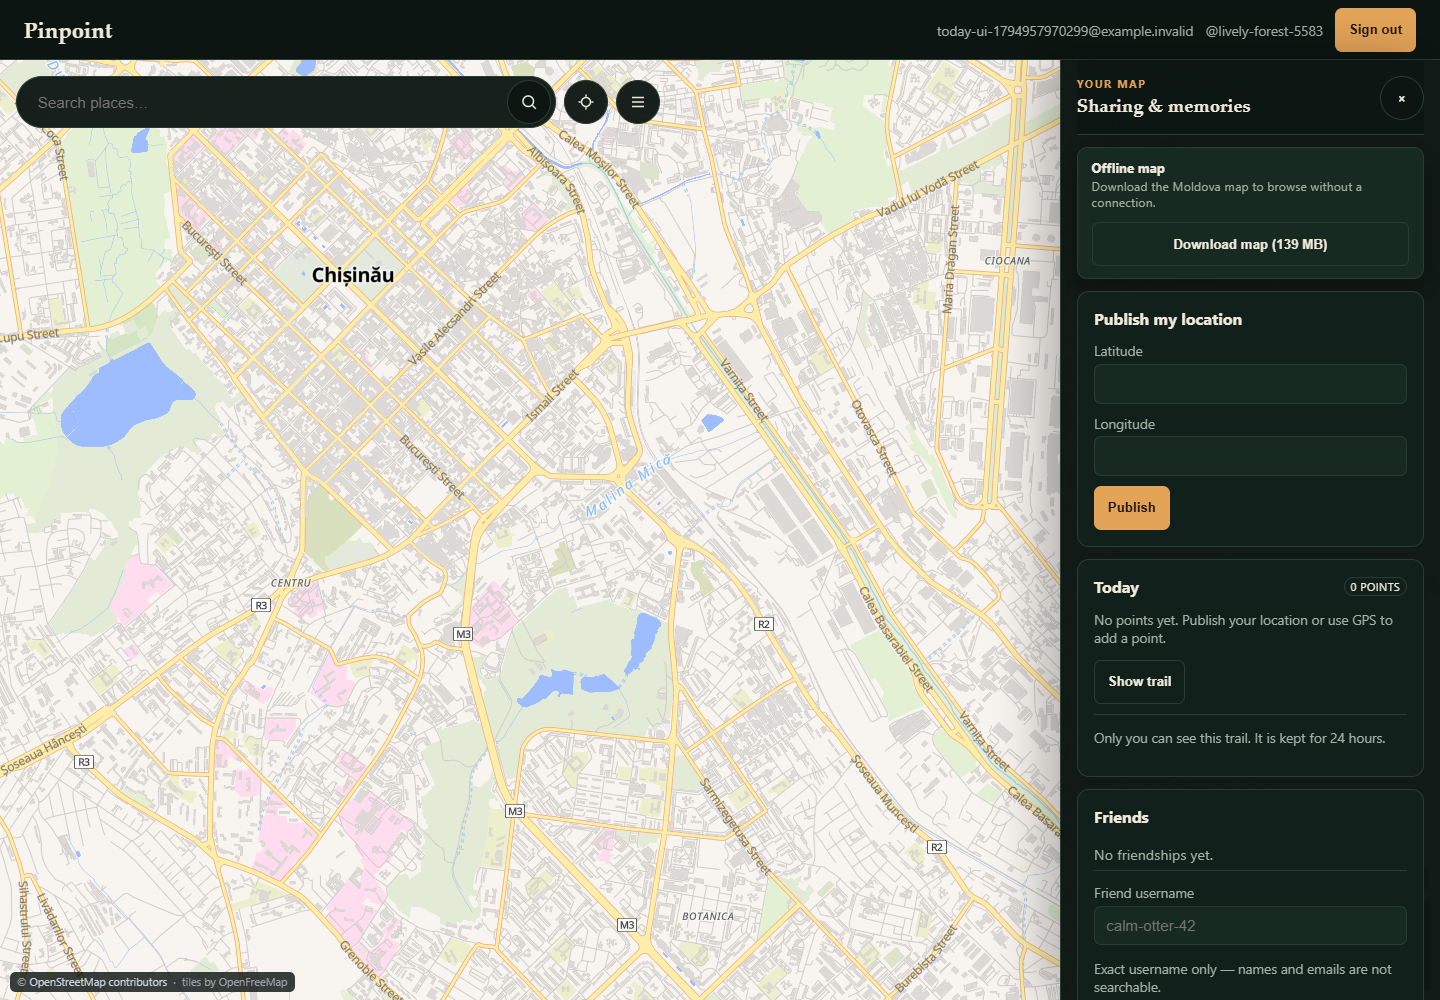
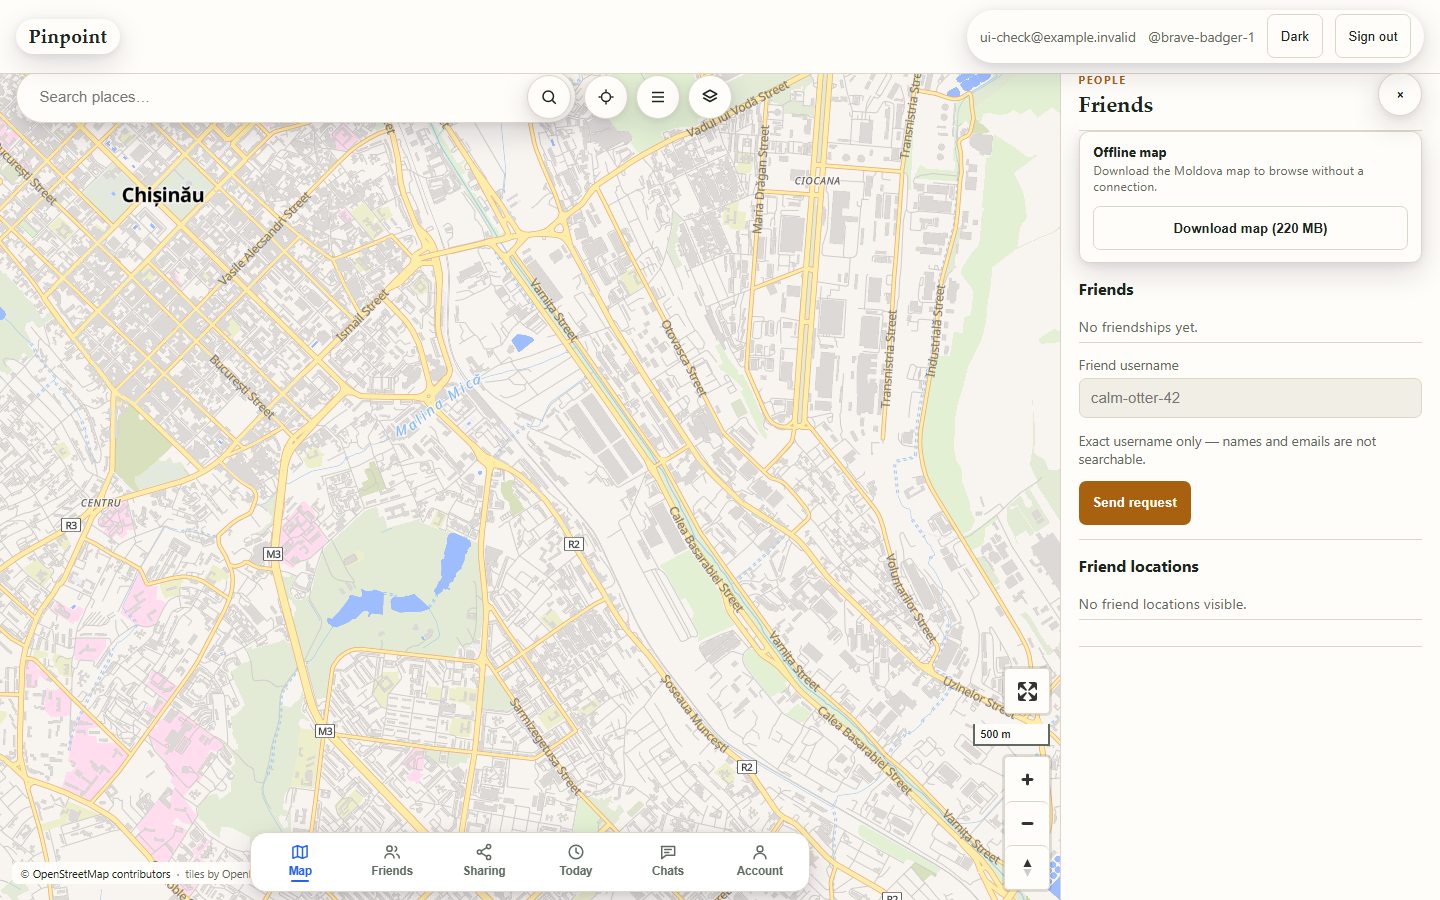
[FEATURE] web: give the map a desktop shell and full controls

diff --git a/web/app/app.css b/web/app/app.css
@@ -1885,3 +1885,111 @@ body:has(.drawer:is(.open, .closing)) .map-controls {
   margin-top: 0.75rem;
 }
 .oauth-buttons button { width: 100%; }
+/* ---------------------------------------------------------------------------
+   Desktop map shell
+   Wide screens get a persistent right column for the section cards, with the
+   map filling the rest. Mobile keeps the bottom sheets and floating tab bar.
+   --------------------------------------------------------------------------- */
+@media (min-width: 981px) {
+  body:has(#app-panel:not(.hidden)) > header {
+    background: var(--glass-strong);
+    border-bottom: 1px solid var(--border);
+  }
+
+  .drawer {
+    top: 3.5rem;
+    right: 0;
+    bottom: 0;
+    left: auto;
+    width: 380px;
+    max-height: none;
+    padding: 0 1.1rem 1.5rem;
+    border: 0;
+    border-left: 1px solid var(--border);
+    border-radius: 0;
+    box-shadow: none;
+    transform: none;
+    animation: none;
+  }
+  .drawer.closing { animation: none; }
+  .drawer-grab { display: none; }
+  .drawer-head {
+    padding-top: 1rem;
+    cursor: default;
+    touch-action: auto;
+  }
+  .drawer-head h2 { font-size: 1.35rem; }
+
+  /* The drawer is part of the layout while open: the map and its chrome
+     shrink instead of hiding underneath it. */
+  body:has(.drawer.open) .app-shell .map {
+    right: 380px;
+    width: calc(100% - 380px);
+  }
+  body:has(.drawer.open) .map-topbar { right: calc(380px + 1rem); }
+  body:has(.drawer.open) .map-controls { right: calc(380px + 1rem); }
+  body:has(.drawer.open) .side-panel { right: calc(380px + 1rem); }
+  body:has(.drawer.open) .tab-bar {
+    right: 380px;
+    width: min(560px, calc(100% - 380px - 2rem));
+  }
+  /* Desktop never hides its chrome behind the drawer. */
+  body:has(.drawer.open) .map-topbar,
+  body:has(.drawer.open) .map-controls,
+  body:has(.drawer.open) > header h1,
+  body:has(.drawer.open) #session-bar {
+    opacity: 1;
+    pointer-events: auto;
+  }
+
+  .map-topbar {
+    top: 4.4rem;
+    right: 1rem;
+    bottom: auto;
+  }
+  .search-form { max-width: 560px; }
+  .category-chips {
+    top: 8rem;
+    bottom: auto;
+    left: 1rem;
+    max-width: min(560px, calc(100% - 380px - 2rem));
+  }
+  .map-controls {
+    top: 8.4rem;
+    right: 1rem;
+    bottom: auto;
+  }
+  .map-attribution {
+    bottom: 1rem;
+    left: 0.75rem;
+  }
+  .tab-bar {
+    right: 0;
+    left: 0;
+    width: min(560px, calc(100% - 2rem));
+    margin: 0 auto;
+    transform: none;
+  }
+  .side-panel {
+    right: 1rem;
+    bottom: 5.4rem;
+    left: auto;
+    width: 400px;
+    transform: none;
+  }
+}
+/* Keep MapLibre's bottom-right controls clear of the mobile search bar and
+   tab bar; desktop has room at the map edge. */
+@media (max-width: 980px) {
+  .app-shell .maplibregl-ctrl-bottom-right {
+    bottom: calc(9.6rem + var(--safe-bottom));
+  }
+}
+@media (min-width: 981px) {
+  /* Results belong under the top-left search field, not above the tab bar. */
+  .search-results {
+    top: 8rem;
+    bottom: auto;
+    left: 1rem;
+  }
+}

diff --git a/web/app/map.js b/web/app/map.js
@@ -105,6 +105,7 @@ export function createMap({
   let noteMarkers = [];
   let navigationControl = null;
   let scaleControl = null;
+  let fullscreenControl = null;
   let online = false;
   let onlineBusy = false;
   let onlineSeq = 0;
@@ -123,8 +124,8 @@ export function createMap({
       if (map) {
         if (!navigationControl) {
           navigationControl = new maplibregl.NavigationControl({
-            showCompass: false,
-            visualizePitch: false,
+            showCompass: true,
+            visualizePitch: true,
           });
           map.addControl(navigationControl, "bottom-right");
         }
@@ -134,6 +135,10 @@ export function createMap({
             unit: "metric",
           });
           map.addControl(scaleControl, "bottom-right");
+        }
+        if (!fullscreenControl) {
+          fullscreenControl = new maplibregl.FullscreenControl();
+          map.addControl(fullscreenControl, "bottom-right");
         }
         // A style switch drops the adapter's accuracy layers; re-add them.
         map.on("style.load", () => {
@@ -770,6 +775,7 @@ export function createMap({
     if (live) {
       navigationControl?.remove?.();
       scaleControl?.remove?.();
+      fullscreenControl?.remove?.();
       removeRoute(live);
       if (live.getLayer(SELF_FILL_LAYER)) live.removeLayer(SELF_FILL_LAYER);
       if (live.getLayer(SELF_LINE_LAYER)) live.removeLayer(SELF_LINE_LAYER);
@@ -777,6 +783,7 @@ export function createMap({
     }
     navigationControl = null;
     scaleControl = null;
+    fullscreenControl = null;
     base.destroy();
   }
 

diff --git a/web/app/app.js b/web/app/app.js
@@ -193,6 +193,11 @@ async function enterApp() {
   }
   renderIdentity();
   updateAdminTab();
+  // Desktop keeps the section cards in a right column; mobile opens them on
+  // demand over the map.
+  if (window.matchMedia?.("(min-width: 981px)").matches) {
+    setDrawer(true, false);
+  }
   // A temporary password blocks the API until it is rotated. Take the user
   // straight to the Account panel instead of letting every tab fail.
   if (state.user?.must_change_password) {
@@ -1211,6 +1216,7 @@ window.addEventListener("unhandledrejection", (event) => {
   const reason = event.reason;
   showCrash(reason instanceof Error ? reason : new Error(String(reason)));
 });
+window.addEventListener("resize", () => mapApi?.resize?.());
 
 // ---------------------------------------------------------------------------
 // MapLibre/PMTiles map adapter (same-origin assets; app/map.js owns the map)
@@ -1663,6 +1669,9 @@ function setDrawer(open, animate = true) {
   drawer.setAttribute("aria-hidden", String(!open));
   drawerToggle.setAttribute("aria-expanded", String(open));
   if (!open) setActiveTab("map");
+  // The drawer changes the map's width on desktop; MapLibre keeps its old
+  // canvas size until told to resize.
+  requestAnimationFrame(() => mapApi?.resize?.());
 }
 setDrawer(false);
 drawerToggle.addEventListener("click", () => {

diff --git a/CHANGELOG.md b/CHANGELOG.md
@@ -41,6 +41,7 @@ The per-item flagged list for this release is in
 - [DOCS] Security and privacy design notes now describe the real controls: per-account login lockout instead of per-IP limits, and the owner-only 7-day trail instead of "no history".
 - [INFRA] Dependency audit: `audit.toml` records nine unmaintained or unsound transitive advisories with no fixed upgrade as accepted risk, so `cargo audit` passes with no open vulnerability.
 ### Added
+- [FEATURE] Web: wide screens now keep the section cards in a right column with a full-bleed map and top-left search, MapLibre gains compass/pitch and fullscreen, and the zoom/fullscreen controls stay clear of the mobile tab bar; the Midterm 2 desktop/mobile map screenshots were regenerated from this build.
 - [FEATURE] Native: the friend list on the map screen now says how old each location is (`just now`, `5m ago`, `2d ago`), matching the web client and using the existing freshness thresholds.
 - [FEATURE] Web: the friend-locations list now says how long ago each friend last shared a location (`just now`, `5m ago`, `2d ago`), so stale data is not mistaken for a live position.
 - [FEATURE] Auth: optional Google OAuth 2.0 sign-in (authorization code + PKCE) with a single-use state bound to an HttpOnly cookie, a verified-email requirement, no automatic email linking, the same opaque session as password login, and an anonymous per-client throttle; disabled unless the client credentials are configured.

diff --git a/docs/midterm2/README.md b/docs/midterm2/README.md
@@ -18,7 +18,7 @@ from the live **v2.6.1** system.
 | [`Q-and-A.md`](./Q-and-A.md) | 20 likely questions with verified/reported/not-built answers | Prepare for questions |
 | [`Admin-Demo.md`](./Admin-Demo.md) | Admin promotion and verification runbook | Use only with the deployment DB |
 | [`reviews/`](./reviews) | Deck QA, artifact, live security/a11y and fact-check evidence | Supporting evidence, not submitted prose |
-| [`assets/`](./assets) | Screenshots: login, map, Today, notes, offline pack, native offline route; `05-mobile.png`/`06-native.png` are archive shots from before the Today tab | Slides and report references |
+| [`assets/`](./assets) | Screenshots: login, desktop and mobile map, Today, notes, offline pack, native offline route; `06-native.png` is an archive shot from before the Today tab | Slides and report references |
 
 ## Quick start
 
